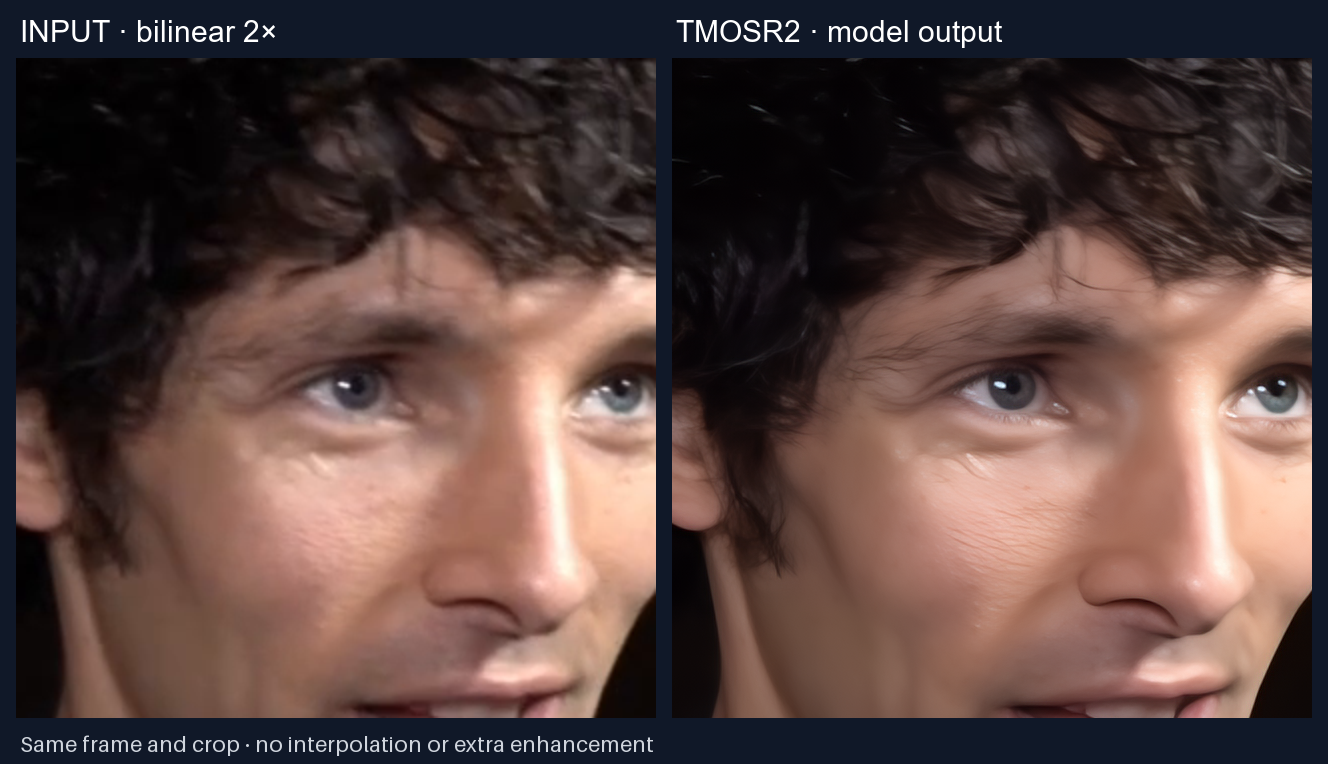
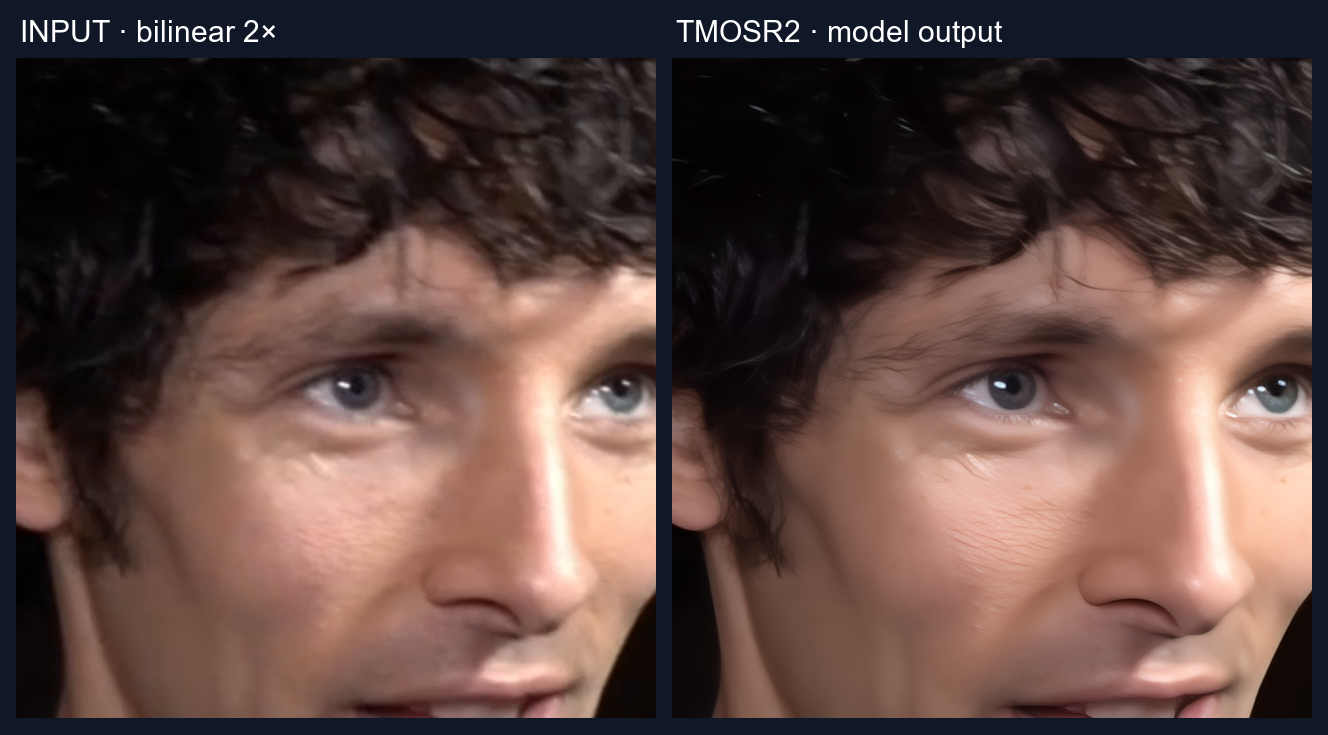
Simplify README and credit xyether dataset and traiNNer-redux training

diff --git a/README.md b/README.md
@@ -2,20 +2,24 @@
 
 **2× temporal upscaling for real-life videos — made by [xyether](https://github.com/XYETHER) 🤍**
 
-Tmosr2 looks at nearby video frames and reuses its previous upscaled results. Its non-temporal backbone is **[MoSRv2 by umzi2](https://github.com/umzi2/MoSRV2)**, with temporal fusion and recurrent feedback added by xyether.
+Tmosr2 is a 2× model for IRL videos. It uses nearby frames and feedback from previous results to upscale each frame.
+
+Built on **[MoSRv2 by umzi2](https://github.com/umzi2/MoSRV2)**, with temporal fusion and recurrent feedback added by xyether.
 
 [![Open in Colab](https://colab.research.google.com/assets/colab-badge.svg)](https://colab.research.google.com/github/XYETHER/Tmosr2/blob/main/Tmosr2.ipynb)
 [![License: MIT](https://img.shields.io/badge/License-MIT-blue.svg)](LICENSE)
 
-> 🧪 **Still in development:** results aren't perfect. You may see artifacts, softer details or flicker, and quality can vary from one clip to another. Try it on your own footage and check the result.
+> 🧪 Still being developed. Results aren't perfect and will vary depending on the video.
 
 ## 👀 See it in action
 
-The example below uses the supplied real-life clip. The input is **1280×720** and the model output is **2560×1440**. No frame interpolation, sharpening filter or other enhancement was added.
+**720p → 1440p**
 
 ![Input and Tmosr2 output](examples/comparison.png)
 
-**A closer look:** the input crop is enlarged with bilinear resizing for comparison; the other crop comes directly from Tmosr2's output.
+### A closer look
+
+The input on the left is resized to match the output's size.
 
 ![Detail comparison](examples/detail.png)
 
@@ -23,14 +27,16 @@ The example below uses the supplied real-life clip. The input is **1280×720** a
 | :---: | :---: |
 | [▶ Watch / download input](https://github.com/XYETHER/Tmosr2/releases/download/v1.0.0/input_preview.mp4) | [▶ Watch / download 2× output](https://github.com/XYETHER/Tmosr2/releases/download/v1.0.0/Tmosr2_preview.mp4) |
 
-Both videos keep all **52 source frames** and their original timing, including the final hold. The images are examples of this checkpoint, not a quality benchmark.
+## 🏋 Training
+
+I trained Tmosr2 using **[traiNNer-redux](https://github.com/the-database/traiNNer-redux)** and **[4K-VFHQ-Tiny](https://huggingface.co/datasets/XYETHER/4K-VFHQ-Tiny)**, a dataset I created.
 
 ## 🚀 Try it in Colab
 
 1. Open the **[Colab notebook](https://colab.research.google.com/github/XYETHER/Tmosr2/blob/main/Tmosr2.ipynb)**.
 2. Select **Runtime → Change runtime type → T4 GPU**.
 3. Run **✨ Setup Environment**, then **🚀 Upscale**.
-4. Upload a video and download your result. That's it! 🎉
+4. Upload your video and download the result.
 
 ### 🎛 What do the settings mean?
 
@@ -52,14 +58,12 @@ Get the **[weights, ONNX models and T4 engines from the release](https://github.
 | File | For |
 | --- | --- |
 | `Tmosr2_2x.safetensors` | Original EMA checkpoint for the PyTorch architecture. |
-| `Tmosr2_2x_recurrent.onnx` | The supplied seven-input recurrent model. |
+| `Tmosr2_2x_recurrent.onnx` | Seven-input recurrent model. |
 | `Tmosr2_2x_seed.onnx` | Spatial bootstrap used to initialize recurrent memory. |
 | `Tmosr2_2x_*_T4.engine` | Prebuilt FP16 engines for T4 + TensorRT 11.0.0.114. |
 | `SHA256SUMS.txt` | Checksums for the release files. |
 
-✅ The released notebook was tested on the supplied T4 runtime from an empty model cache, using these public downloads. A setup rerun reused the cache, and the default settings processed all 52 preview frames with their original timing.
-
-The Colab notebook downloads verified engines automatically. It doesn't build engines or run ONNX conversion during setup. The PyTorch source is available for other hardware.
+The Colab notebook downloads what it needs automatically and was tested on a T4. For other hardware, use the PyTorch version below.
 
 <details>
 <summary><strong>🔬 How the temporal architecture works</strong></summary>
@@ -99,7 +103,7 @@ flowchart LR
 
 The release engines have landscape and portrait profiles: minimum 32 pixels per LR dimension, maximum long side 1920 and short side 1080. Odd dimensions are reflect-padded during inference and cropped back at 2×.
 
-The released checkpoint is the supplied **phase-4 EMA, iteration 3829**, publicly named **Tmosr2**. It was trained on VFHQ-derived, DPID-downsampled 2× pairs. There is no validated temporal-quality benchmark or claim of superior temporal consistency in this release.
+Checkpoint: **phase-4 EMA, iteration 3829**.
 
 </details>
 
@@ -130,15 +134,15 @@ python tools/build_t4_engines.py --model-dir models
 python tmosr2_video.py input.mp4 output.mp4 --backend trt
 ```
 
-See [validation.json](validation.json) for the tested runtime, checkpoint/ONNX comparison, recurrent FP16 comparison and full-video checks. This records the tested environment; it does not guarantee every future Colab runtime or input will behave identically.
+Test results and runtime details are in [validation.json](validation.json).
 
 </details>
 
 ## 🤍 Credits & license
 
-- **[xyether](https://github.com/XYETHER)** — temporal architecture additions, model weights, notebook and release.
+- **[xyether](https://github.com/XYETHER)** — temporal architecture, model training, [4K-VFHQ-Tiny dataset](https://huggingface.co/datasets/XYETHER/4K-VFHQ-Tiny), notebook and release.
 - **[umzi2](https://github.com/umzi2)** — the base **[MoSRv2 non-temporal architecture](https://github.com/umzi2/MoSRV2)**, licensed under MIT.
-- **[traiNNer-redux](https://github.com/the-database/traiNNer-redux)** — training framework and backbone compatibility code; its Apache-2.0 notice is retained.
+- **[traiNNer-redux](https://github.com/the-database/traiNNer-redux)** — the framework used to train Tmosr2.
 - The notebook layout is adapted from **[Xyether Anime Upscaler](https://github.com/XYETHER/Xyether-Anime-Upscaler)**.
 
 Tmosr2's temporal code, weights and notebook are released under **[MIT](LICENSE)**. Upstream notices are preserved in [NOTICE](NOTICE) and [licenses/](licenses/). Example footage is separate from the code/model license.
